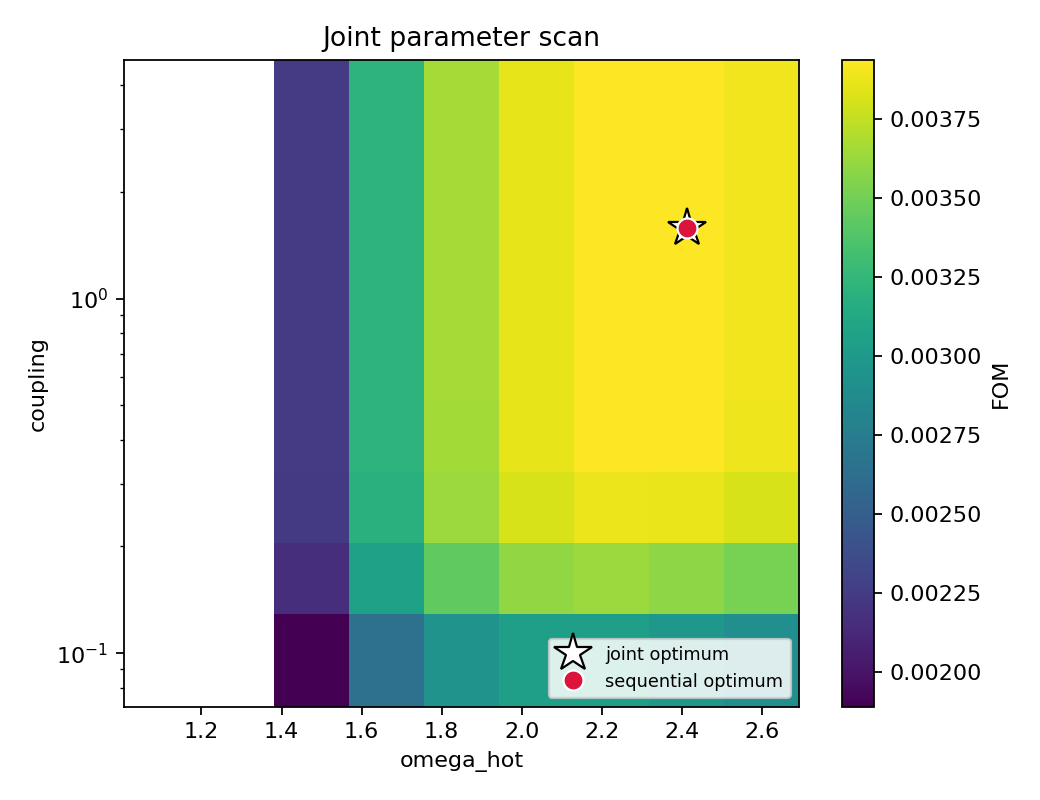
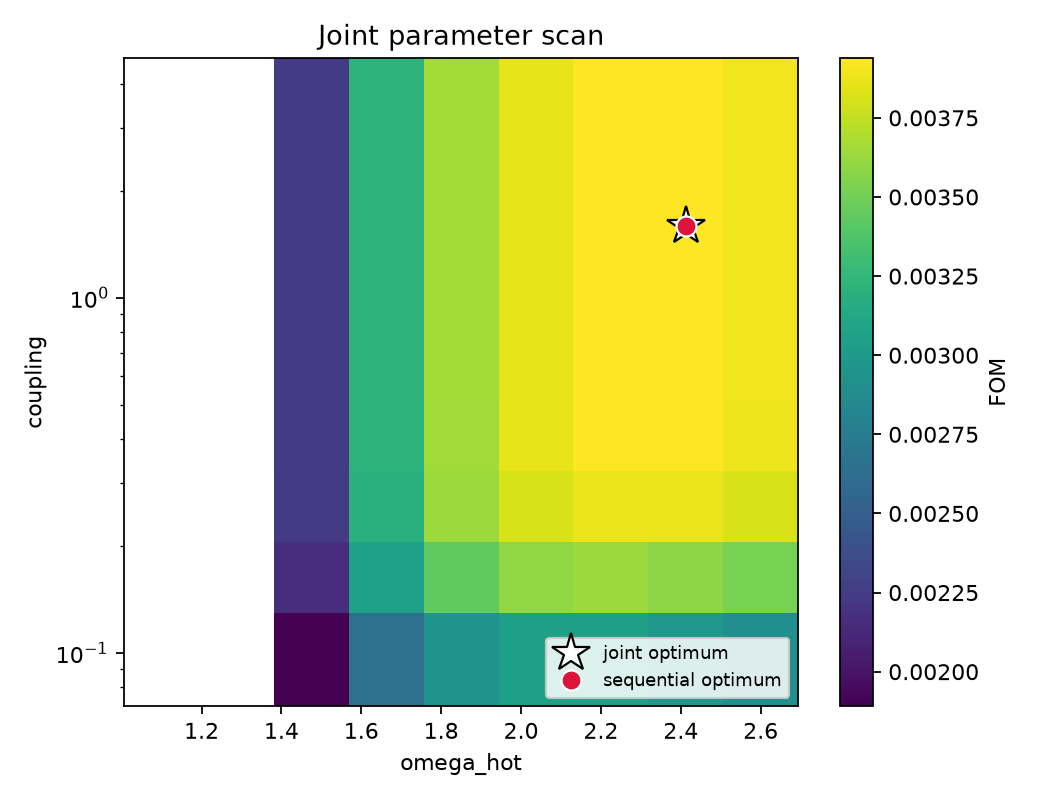
Vectorise quantum-jump unravelling across trajectories; run examples in CI
unravel now propagates all trajectories together: one matrix product per
time step for the no-jump evolution, with only the trajectories that
jump handled individually. The trajectory tests drop from ~90 s to ~6 s
with unchanged statistical agreement (master-equation mean, exact
counting). Figures regenerated by full_demo change only by sampling.

CI gains an 'examples' job that runs every script in examples/.

Claude-Session: https://claude.ai/code/session_01VV69mD8LuaJk9i2Bo6zgJQ

diff --git a/qthermo/stochastic.py b/qthermo/stochastic.py
@@ -155,6 +155,74 @@ def _mcwf_stroke(psi, H, c_ops, duration, steps, rng):
     return psi, heat, counts, quanta
 
 
+def _mcwf_stroke_batch(psi, H, c_ops, duration, steps, rng, quanta):
+    """Monte Carlo wave-function evolution of a whole batch over one stroke.
+
+    ``psi`` has shape ``(n_trajectories, dim)``. Every trajectory shares the
+    same propagator, so the no-jump evolution is one matrix product per step;
+    only the trajectories that jump in a step are handled individually.
+    Returns (psi, heat per trajectory, jump counts per trajectory).
+    """
+    n, dim = psi.shape
+    H_of_t = H if callable(H) else (lambda t, _H=_as_matrix(H): _H)
+    dt = duration / steps
+
+    if not c_ops:
+        for k in range(steps):
+            U = expm(-1j * _as_matrix(H_of_t((k + 0.5) * dt)) * dt)
+            psi = psi @ U.T
+        return psi, np.zeros(n), np.zeros((n, 0))
+
+    if callable(c_ops):
+        raise NotImplementedError(
+            "trajectory unravelling of time-dependent baths is not supported "
+            "yet; use Cycle.run for the averaged dynamics")
+    ops = flatten_operators(c_ops)
+    damping = sum(L.conj().T @ L for L in ops)
+    constant = not callable(H)
+    if constant:
+        propagator_T = expm(-1j * (_as_matrix(H_of_t(0.0)) - 0.5j * damping) * dt).T
+
+    heat = np.zeros(n)
+    counts = np.zeros((n, len(ops)))
+    thresholds = rng.random(n)
+    for k in range(steps):
+        if constant:
+            psi = psi @ propagator_T
+        else:
+            H_mid = _as_matrix(H_of_t((k + 0.5) * dt))
+            psi = psi @ expm(-1j * (H_mid - 0.5j * damping) * dt).T
+        norms = np.einsum("ij,ij->i", psi.conj(), psi).real
+        jumping = np.nonzero(norms <= thresholds)[0]
+        if not len(jumping):
+            continue
+        H_now = _as_matrix(H_of_t((k + 1) * dt))
+        phi = psi[jumping] / np.sqrt(norms[jumping])[:, None]
+        before = np.einsum("ij,jk,ik->i", phi.conj(), H_now, phi).real
+        images = np.stack([phi @ L.T for L in ops], axis=1)        # (m, n_ops, dim)
+        weights = np.einsum("mjd,mjd->mj", images.conj(), images).real
+        weights = np.clip(weights, 0.0, None)
+        totals = weights.sum(axis=1)
+        valid = totals > 0
+        cumulative = np.cumsum(weights, axis=1) / np.where(valid, totals, 1.0)[:, None]
+        choice = (rng.random(len(jumping))[:, None] > cumulative).sum(axis=1)
+        choice = np.minimum(choice, len(ops) - 1)
+        new = images[np.arange(len(jumping)), choice]
+        new /= np.linalg.norm(new, axis=1)[:, None]
+        after = np.einsum("ij,jk,ik->i", new.conj(), H_now, new).real
+        delta = np.where(valid, after - before, 0.0)
+        rows = jumping[valid]
+        psi[rows] = new[valid]
+        heat[rows] += delta[valid]
+        counts[rows, choice[valid]] += 1
+        for r, d in zip(rows, delta[valid]):
+            quanta[r].append(float(d))
+        thresholds[jumping] = rng.random(len(jumping))
+
+    psi /= np.linalg.norm(psi, axis=1)[:, None]
+    return psi, heat, counts
+
+
 def unravel(cycle, rho0, trajectories: int = 500, steps: int = 400, seed: int | None = None
             ) -> TrajectoryEnsemble:
     """Run a ``Cycle`` as an ensemble of quantum-jump trajectories.
@@ -163,51 +231,44 @@ def unravel(cycle, rho0, trajectories: int = 500, steps: int = 400, seed: int | 
     physical picture in which the bath exchanges discrete quanta -- and work is
     recovered as the first-law residual, so ``dU = Q + W`` holds exactly on
     every single trajectory.
+
+    ``steps`` is the total number of time steps per cycle, split evenly over
+    the strokes. The jump times are resolved to one step, which biases the
+    statistics at O(rate x dt); for exact single-cycle distributions use
+    :func:`qthermo.counting.cycle_counting`. All trajectories are propagated
+    together, so the cost is dominated by the number of steps, not by the
+    number of trajectories.
     """
     rng = np.random.default_rng(seed)
     rho0 = _as_matrix(rho0)
+    dim = rho0.shape[0]
+
+    eigenvalues, eigenvectors = np.linalg.eigh(rho0)
+    probabilities = np.clip(eigenvalues.real, 0.0, None)
+    probabilities /= probabilities.sum()
+    picks = rng.choice(dim, size=trajectories, p=probabilities)
+    psi = eigenvectors[:, picks].T.astype(complex)            # (N, dim)
 
     heats = np.zeros(trajectories)
     works = np.zeros(trajectories)
+    stroke_heat = {}
     all_counts = []
-    all_quanta = []
-    stroke_heat = {s.name: np.zeros(trajectories) for s in cycle.strokes}
+    quanta = [[] for _ in range(trajectories)]
+    per_stroke = max(steps // max(len(cycle.strokes), 1), 20)
 
-    for index in range(trajectories):
-        psi = _sample_initial_pure_state(rho0, rng)
-        total_heat = 0.0
-        total_work = 0.0
-        counts_per_stroke = []
-        quanta_per_trajectory: list[float] = []
+    for stroke in cycle.strokes:
+        H_initial = _as_matrix(stroke.H(0.0) if callable(stroke.H) else stroke.H)
+        H_final = _as_matrix(stroke.H(stroke.duration) if callable(stroke.H) else stroke.H)
+        energy_before = np.einsum("ij,jk,ik->i", psi.conj(), H_initial, psi).real
+        psi, heat, counts = _mcwf_stroke_batch(psi, stroke.H, stroke.c_ops,
+                                               stroke.duration, per_stroke, rng, quanta)
+        energy_after = np.einsum("ij,jk,ik->i", psi.conj(), H_final, psi).real
+        heats += heat
+        works += (energy_after - energy_before) - heat
+        stroke_heat[stroke.name] = stroke_heat.get(stroke.name, 0.0) + heat
+        all_counts.append(counts)
 
-        for stroke in cycle.strokes:
-            H_initial = (stroke.H(0.0) if callable(stroke.H) else stroke.H)
-            H_final = (stroke.H(stroke.duration)
-                       if callable(stroke.H) else stroke.H)
-
-            energy_before = _expectation(psi, _as_matrix(H_initial))
-            psi, heat, counts, quanta = _mcwf_stroke(
-                psi, stroke.H, stroke.c_ops, stroke.duration,
-                max(steps // max(len(cycle.strokes), 1), 20), rng,
-            )
-            energy_after = _expectation(psi, _as_matrix(H_final))
-
-            total_heat += heat
-            total_work += (energy_after - energy_before) - heat
-            stroke_heat[stroke.name][index] += heat
-            counts_per_stroke.append(counts)
-            quanta_per_trajectory.extend(quanta)
-
-        heats[index] = total_heat
-        works[index] = total_work
-        all_counts.append(np.concatenate(counts_per_stroke)
-                          if counts_per_stroke else np.zeros(0))
-        all_quanta.append(quanta_per_trajectory)
-
-    width = max((c.size for c in all_counts), default=0)
-    padded = np.zeros((trajectories, width))
-    for i, c in enumerate(all_counts):
-        padded[i, :c.size] = c
+    padded = np.concatenate(all_counts, axis=1) if all_counts else np.zeros((trajectories, 0))
 
     # Heat is a sum of jump energies computed as differences of expectation
     # values, so a trajectory whose jumps cancel lands on ~1e-16 rather than
@@ -217,7 +278,7 @@ def unravel(cycle, rho0, trajectories: int = 500, steps: int = 400, seed: int | 
     heats = _snap_zero(heats, scale)
     stroke_heat = {k: _snap_zero(v, scale) for k, v in stroke_heat.items()}
     return TrajectoryEnsemble(heat=heats, work=works,
-                              jump_counts=padded, jump_quanta=all_quanta,
+                              jump_counts=padded, jump_quanta=quanta,
                               stroke_heat=stroke_heat)
 
 
